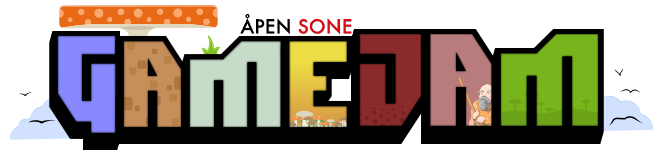
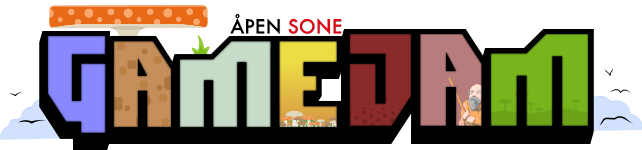
Center the new header

diff --git a/css/style.css b/css/style.css
@@ -9,6 +9,11 @@ header
     padding: 0.8em;
 }
 
+header img 
+{
+    max-width: 100%;
+}
+
 footer
 {
     padding: 1em;
@@ -70,8 +75,8 @@ td
 td a
 {
     display: inline-block;
-    height:100%;
-    width:100%;
+    height: 100%;
+    width: 100%;
     margin: -10em;
     padding: 10em;
     color: black;
